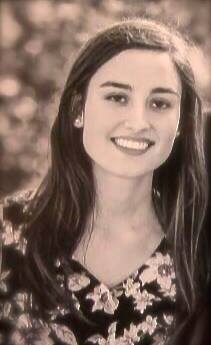
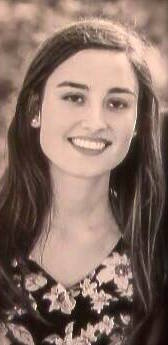
Loads of cool tweaks

diff --git a/index.html b/index.html
@@ -4,12 +4,12 @@
 	<title>Georgia Scott</title>
 	<meta property="og:title" content="Georgia Scott" />
 	<meta property="og:site_name" content="Georgia Scott" />
-	<meta property="og:image" content="" />
-	<meta property="og:description" content="DESCRIPTION" />
+	<meta property="og:image" content="http://georgiascott.co.uk/img/georgia.png" />
+	<meta property="og:description" content="Georgia Scott - Composer, Orchestrator, Arranger" />
 	<meta property="og:url" content="http://georgiascott.co.uk" />
 	<meta property="og:type" content="website" />
 	<meta name="description" content="DESCRIPTION">
-	<meta name="keywords" content="Georgia, Scott, Georgia Scott, Composer, RCM, Royal College of Music, Composition">
+	<meta name="keywords" content="Georgia, Scott, Georgia Scott, Composer, Orchestrator, Arranger, RCM, Royal College of Music, Composition, London, United Kingdom, England">
 	<meta name="author" content="Georgia Scott">
 	<!--<link rel="shortcut icon" type="image/ico" href="favicon.ico" />-->
 
@@ -22,8 +22,6 @@
 
 	<!-- Fonts -->
 	<link href="http://fonts.googleapis.com/css?family=Montserrat:400,700%7cOpen+Sans:400,300,700" rel="stylesheet" type="text/css">
-	<link href='http://fonts.googleapis.com/css?family=Calligraffitti' rel='stylesheet' type='text/css'>
-	<link href='http://fonts.googleapis.com/css?family=Great+Vibes' rel='stylesheet' type='text/css'>
 
 	<!-- jQuery Files -->
 	<script type="text/javascript" src="http://code.jquery.com/jquery-1.9.1.js"></script>
@@ -40,7 +38,7 @@
 			'slide3':     		'img/slider/slide3.jpg',
 			'quote1':     		'img/quote/bg.jpg',
 			'georgia-about':    'img/georgia-about.jpg',
-			'georgia':          'img/georgia.jpg',
+			'georgia':          'img/georgia.png',
 		};
 
 		// config
@@ -56,7 +54,7 @@
 				}, 500);
 				window.setTimeout(function() {
 					console.log("refreshing skrollr");
-					//window.skrl.refresh();
+					//window.skrollr.refresh();
 				}, 2000);
 			}
 		});
@@ -77,7 +75,7 @@
 
   <body class="" data-spy="scroll" data-target="#myScrollSpy" data-offset="200">
 
-  <audio id="orchestra-audio" oncanplay="playLoadingAudio()" volume="0">
+  <audio id="orchestra-audio" preload="true" oncanplay="playLoadingAudio()" volume="0">
 	<source src="audio/loading.mp3" type="audio/mpeg">
   </audio>
 
@@ -90,11 +88,11 @@
 			<div class="item active">
 				<div id="slide1" class="fill skrollable" style="background-image: url(img/slider/slide1.jpg)" data-700="background-position: 50% -300px;" data-0="background-position: 50% 0px;" data-anchor-target=".carousel h1">
 					<div class="container text-center center-vertically">
-						<p class="slider-description">Composer, Orchestrator, Arranger</p>
 						<hr class="carousel-hr">
 						<div>
 							<h1 id="carousel-h1-1" class="carousel-h1">Georgia Scott</h1>
 						</div>
+						<p class="slider-description">Composer, Orchestrator, Arranger</p>
 						<hr class="carousel-hr">
 						<a href="#" data-id="section1" class="btn btn-default bolt-button-light scroll-link" style="margin-top:10px;">
 							About Me &nbsp;&nbsp;<span class="ion-ios7-arrow-down"></span>
@@ -195,7 +193,7 @@
 					<div class="col-lg-10 col-lg-offset-1">
 						<h3 data-scroll-reveal="enter left and move 50px over 1.2s" >Georgia Scott - Composer</h3>
 						<hr data-scroll-reveal="" >
-						<img data-scroll-reveal="enter right and move 50px over 1.2s" class="georgias-face" src="img/georgia.jpg">
+						<img data-scroll-reveal="enter right and move 50px over 1.2s" class="georgias-face" src="img/georgia.png">
 						<hr data-scroll-reveal="" >
 						<p data-scroll-reveal="" >Hi I'm Georgia! I'm a freelance composer, orchestrator and arranger, recently graduated from The Royal College of Music.</p>
 						<a data-scroll-reveal="enter left and move 50px over 1.2s" href="#" data-id="section3" class="btn btn-default bolt-button-dark scroll-link" >
@@ -415,7 +413,6 @@
 	<script type="text/javascript" src="js/jquery.mixitup.min.js"></script>
 	<script type="text/javascript" src="js/portfolio.js"></script>
 	<script type="text/javascript" src="js/navbar.js"></script>
-	<script type="text/javascript" src="js/ticker.js"></script>
 	<script type="text/javascript" src="js/modal-fix.js"></script>
 	<script type="text/javascript" src="js/skrollr.min.js"></script>
 	<script type="text/javascript" src="js/start-skrollr.js"></script>	

diff --git a/js/royal_preloader.min.js b/js/royal_preloader.min.js
@@ -10,7 +10,7 @@
 
 window.requestAnimFrame=function(){return window.requestAnimationFrame||window.webkitRequestAnimationFrame||window.mozRequestAnimationFrame||window.oRequestAnimationFrame||window.msRequestAnimationFrame||function(a){window.setTimeout(a,1E3/60)}}();
 var Royal_Preloader={_overlay:null,_overlay_bg:null,_loader:null,_name:null,_percentage:null,_on_complete:null,_text_loader:null,_text_loader_overlay:null,_logo_loader:null,_logo_loader_meter:null,_total:0,_loaded:0,_image_queue:[],_percentage_loaded:0,_mode:function(){return"undefined"!==typeof Royal_Preloader&&"undefined"!==typeof Royal_Preloader._mode?Royal_Preloader._mode:"number"}(),_text:function(){return"undefined"!==typeof Royal_Preloader&&"undefined"!==typeof Royal_Preloader._text?Royal_Preloader._text:
-"loading..."}(),_opacity:function(){return"undefined"!==typeof Royal_Preloader&&"undefined"!==typeof Royal_Preloader._opacity?Royal_Preloader._opacity:1}(),_images:function(){return"undefined"!==typeof Royal_Preloader&&"undefined"!==typeof Royal_Preloader._images?Royal_Preloader._images:{}}(),_show_info:function(){return"undefined"!==typeof Royal_Preloader&&"undefined"!==typeof Royal_Preloader._show_info?Royal_Preloader._show_info:!0}(),_show_percentage:function(){return"undefined"!==typeof Royal_Preloader&&
+"Tuning Instruments..."}(),_opacity:function(){return"undefined"!==typeof Royal_Preloader&&"undefined"!==typeof Royal_Preloader._opacity?Royal_Preloader._opacity:1}(),_images:function(){return"undefined"!==typeof Royal_Preloader&&"undefined"!==typeof Royal_Preloader._images?Royal_Preloader._images:{}}(),_show_info:function(){return"undefined"!==typeof Royal_Preloader&&"undefined"!==typeof Royal_Preloader._show_info?Royal_Preloader._show_info:!0}(),_show_percentage:function(){return"undefined"!==typeof Royal_Preloader&&
 "undefined"!==typeof Royal_Preloader._show_percentage?Royal_Preloader._show_percentage:!0}(),_background:function(){return"undefined"!==typeof Royal_Preloader&&"undefined"!==typeof Royal_Preloader._background?Royal_Preloader._background:["#000000"]}(),_logo:function(){return"undefined"!==typeof Royal_Preloader&&"undefined"!==typeof Royal_Preloader._logo?Royal_Preloader._logo:"none"}(),_timeout:10,_use_css_animation:!0,_css3SupportDetect:function(){var a=document.body.style;if("string"==typeof a.transition)return Royal_Preloader._use_css_animation=
 !0;for(var b=["Webkit","Moz","Khtml","O","ms"],c=0;c<b.length;c++)if("string"==typeof a[b[c]+"Transition"])return Royal_Preloader._use_css_animation=!0;return Royal_Preloader._use_css_animation=!1},_init:function(){Royal_Preloader._css3SupportDetect();Royal_Preloader._total=0;$.each(Royal_Preloader._images,function(){Royal_Preloader._total++});Royal_Preloader._build();Royal_Preloader._load()},_build:function(){this._overlay=$("<div>").attr("id","royal_preloader").addClass(this._mode);this._overlay_bg=
 $("<div>").addClass("background").appendTo(this._overlay).css("background-color",this._background[0]);"number"===this._mode?this._percentage=$("<div>").addClass("percentage").appendTo(this._overlay):"text"===this._mode?(this._text_loader=$("<div>").addClass("loader").text(this._text).appendTo(this._overlay),this._text_loader_overlay=$("<div>").css("background-color",this._background[0]).appendTo(this._text_loader)):(this._logo_loader=$("<div>").css("background-image",'url("'+this._logo+'")').addClass("loader").appendTo(this._overlay),

diff --git a/css/royal_preloader.css b/css/royal_preloader.css
@@ -3,7 +3,7 @@ body.royal_loader {
     visibility: hidden;
 }
 #royal_preloader {
-    font-family: Arial;
+    font-family: Montserrat;
     font-size: 12px;
     visibility: visible;
     position: fixed;
